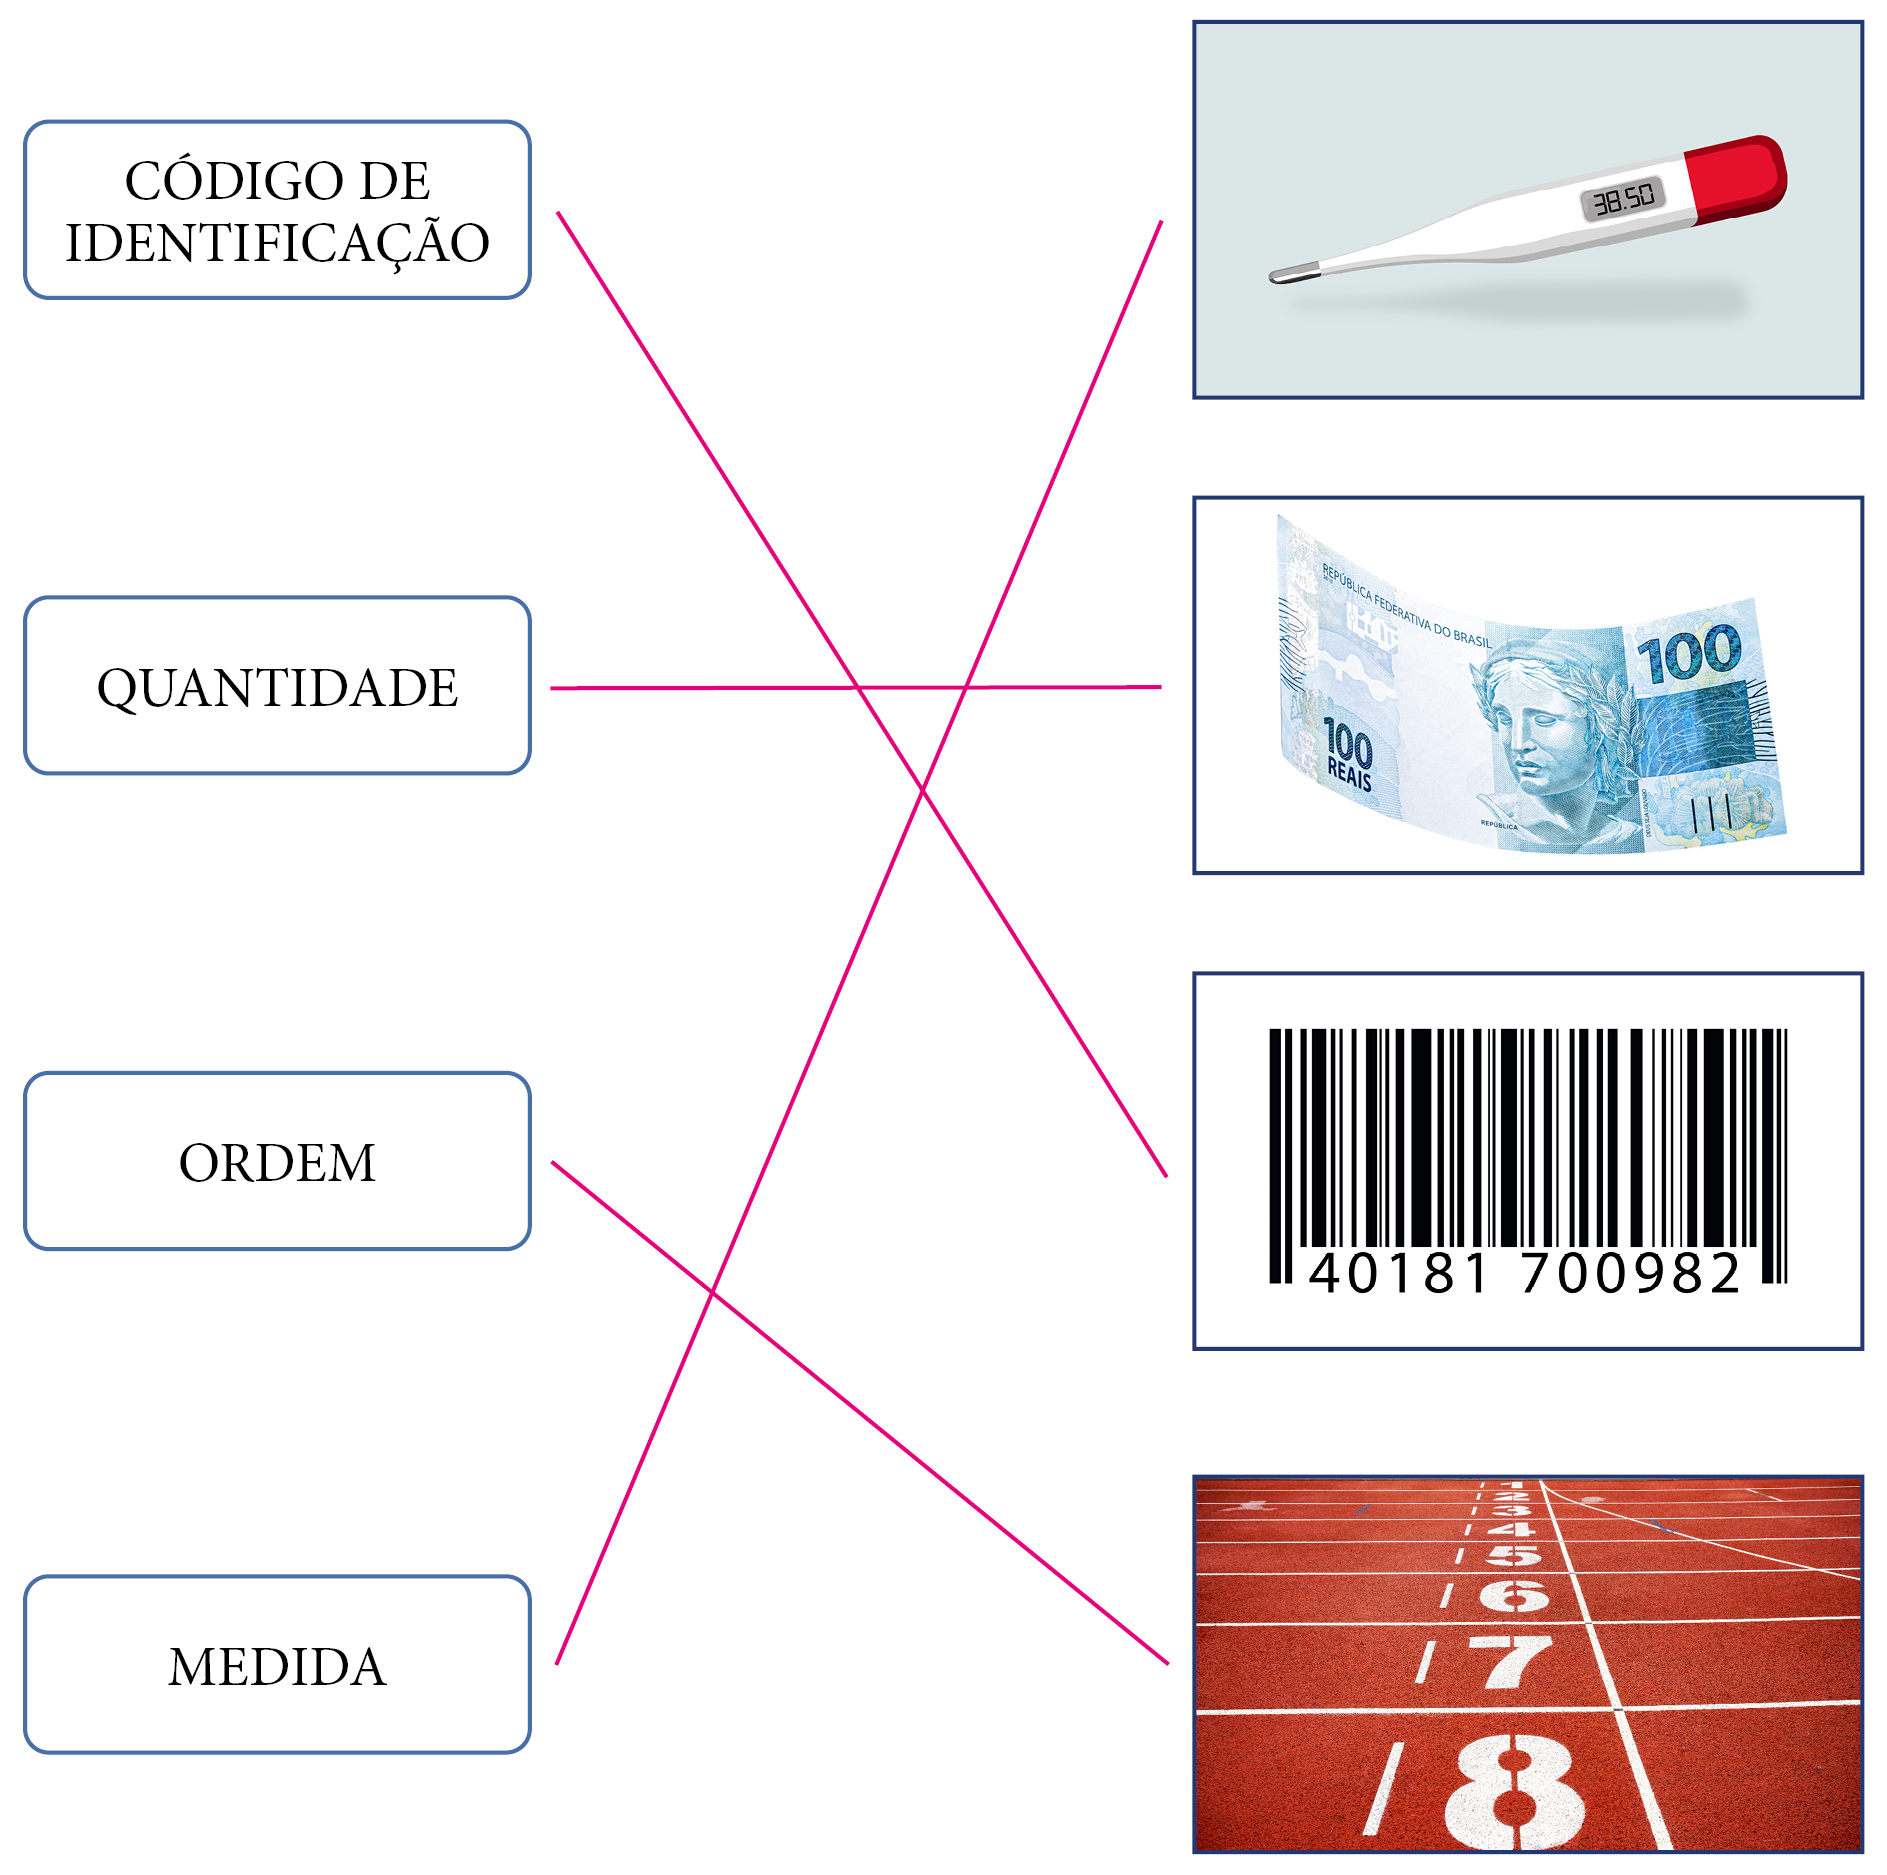
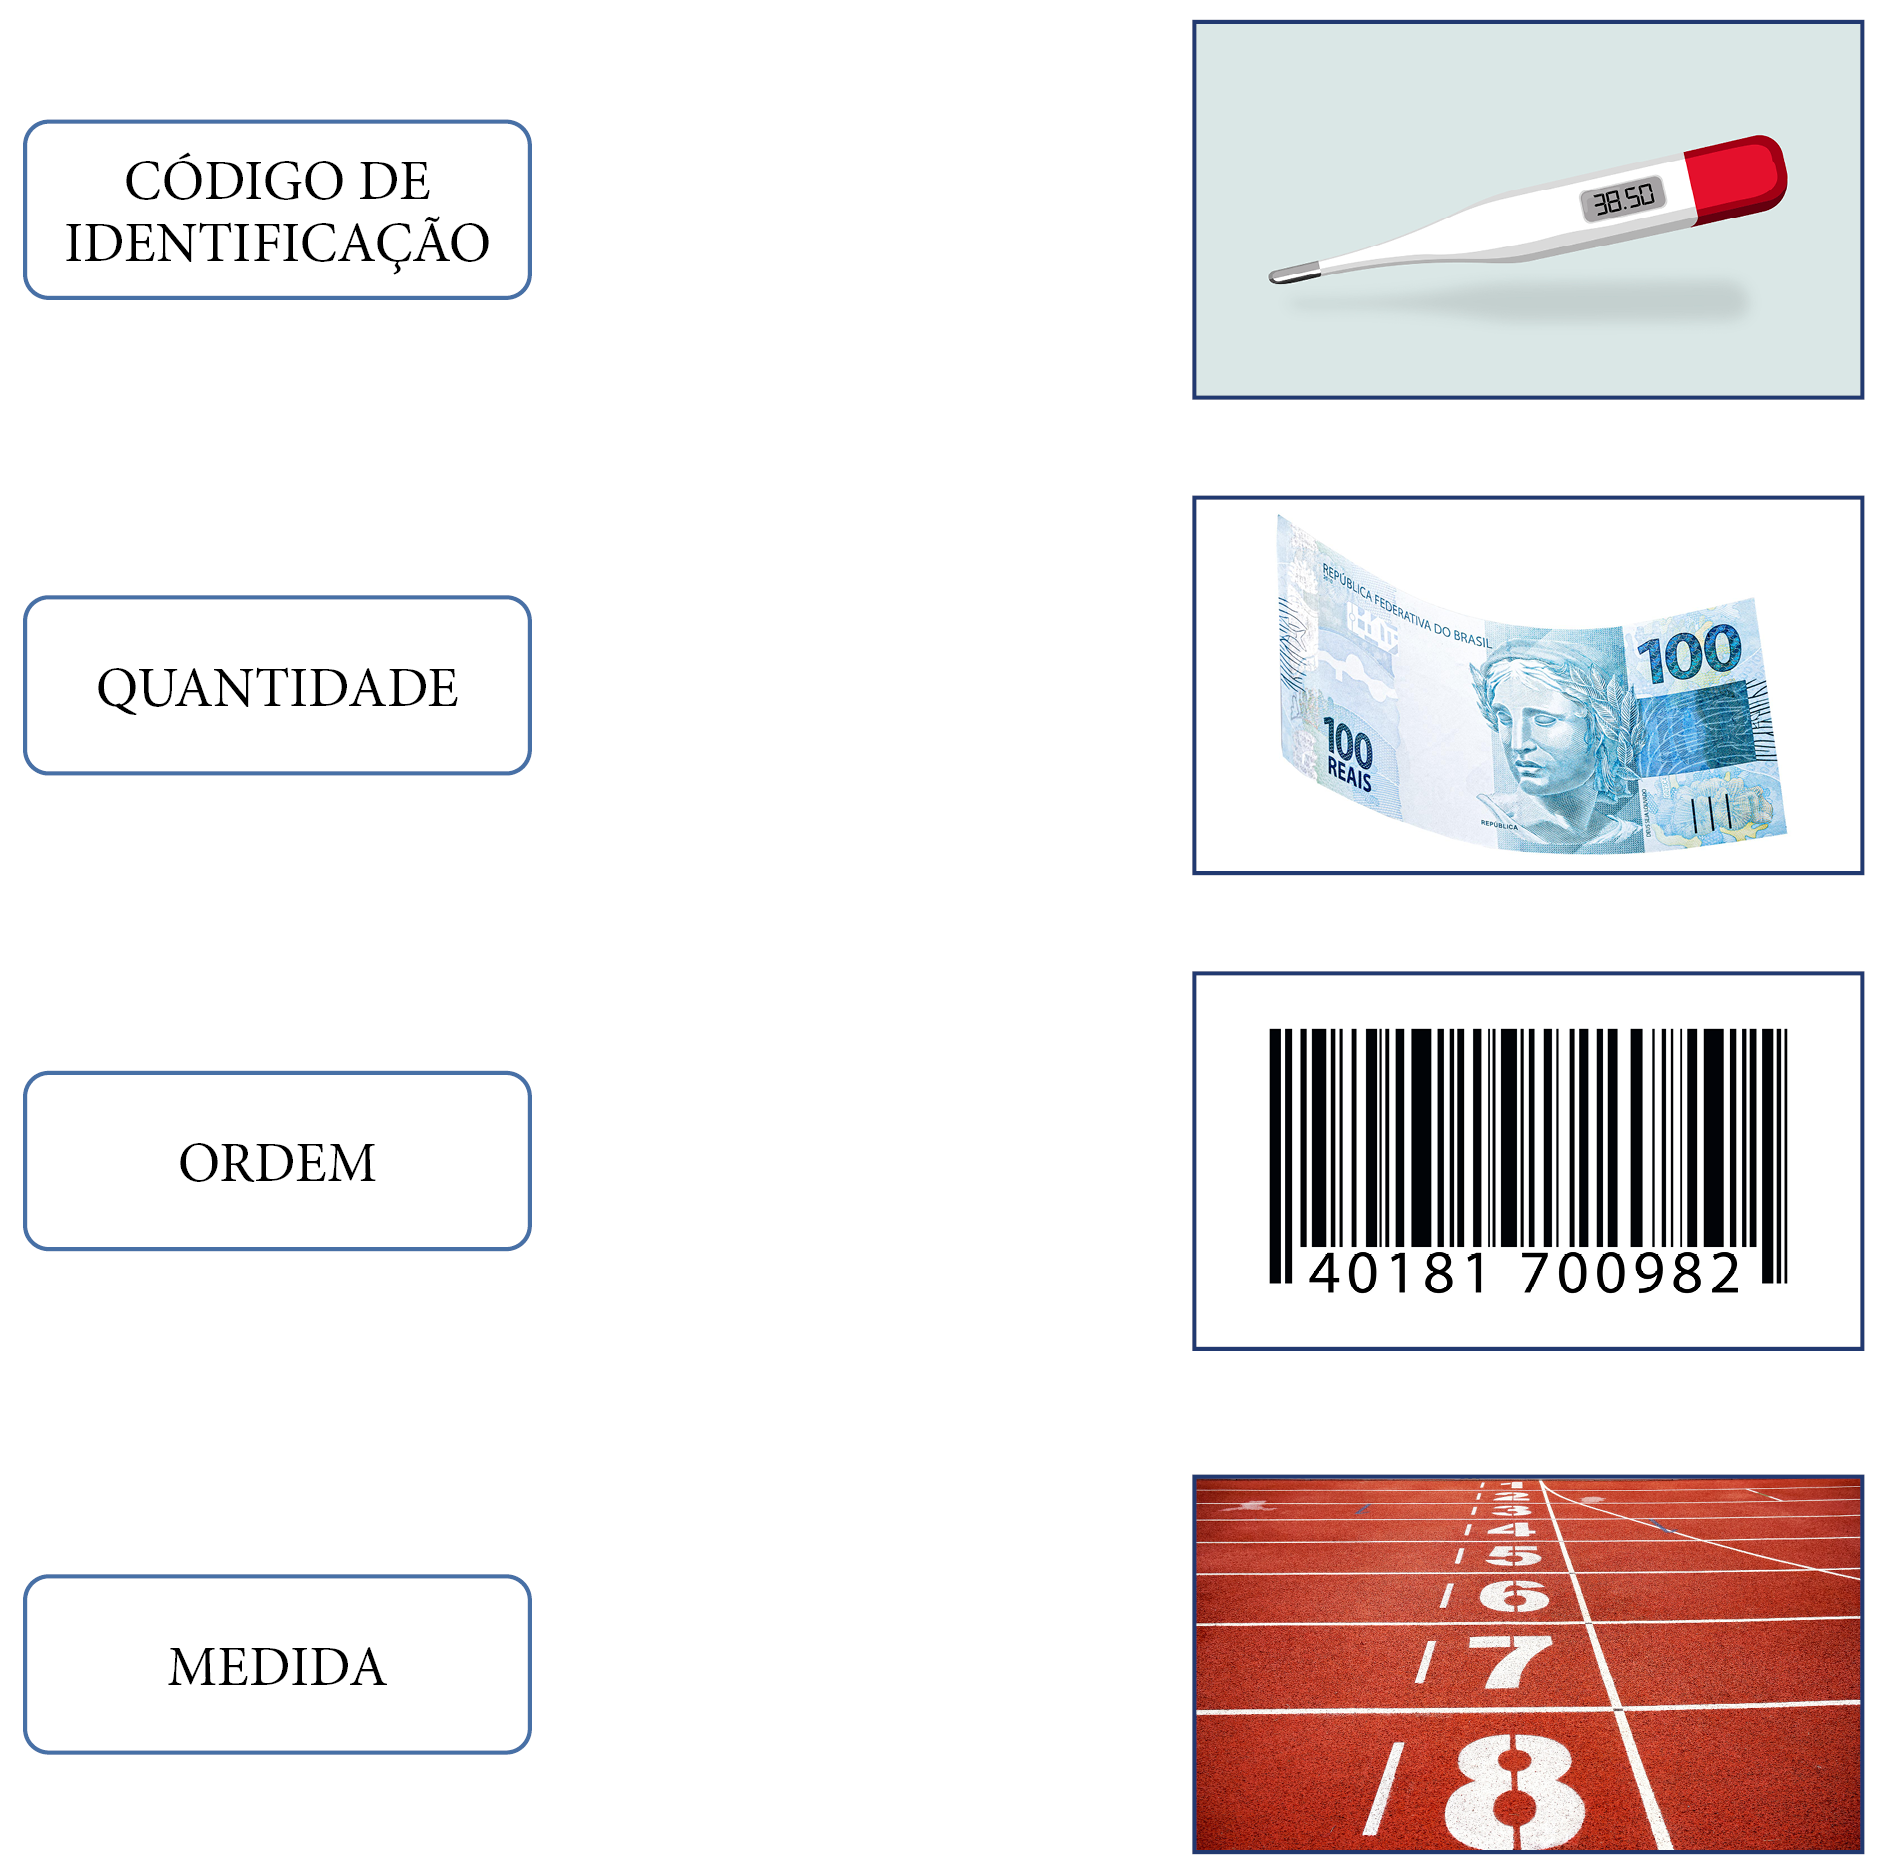
antes do rosa

diff --git a/2M/MAT.tex b/2M/MAT.tex
@@ -75,7 +75,7 @@ pedrinhas que queremos adicionar, por exemplo.}
 
 \begin{figure}[htpb!]
 \centering
-\includegraphics[width=.8\textwidth]{./media/image3_prof.png}
+\includegraphics[width=.8\textwidth]{./media/image3.png}
 \end{figure}
 
 %André: eliminar as linhas da imagem e colocar as respostas por extenso em uma única linha usando o comando \rosa e aumentar a imagem (28/8/23, 11h56) CRoger + Felipe A 
@@ -97,7 +97,7 @@ ordená-los primeiro.
 direita representa as unidades, e assim por diante.
 
 \begin{figure}[htpb!]
-\includegraphics[width=.7\textwidth]{./media/image5_prof.png}
+\includegraphics[width=.7\textwidth]{./media/image5.png}
 \end{figure}
 
 % André: individualizar as imagens e melhorar distribuição na página (28/8/23, CR + Felipe A)
@@ -109,7 +109,7 @@ quadros abaixo das letras. Depois, ordene as letras no quadro seguinte.
 % André: apagar respostas do quadro e escrevê-las por extenso (28/8/23, CR + Felipe A)
 
 \begin{figure}[htpb!]
-\includegraphics[width=\textwidth]{./media/image6_prof.png}
+\includegraphics[width=\textwidth]{./media/image6.png}
 \end{figure}
 
 %\coment{Oriente os alunos a descobrirem os números antes de ordená-los.}
@@ -147,7 +147,7 @@ situações.
 \vspace{+2em}
 
 \begin{figure}[htpb!]
-\includegraphics[width=\textwidth]{./media/image9_prof.png}
+\includegraphics[width=\textwidth]{./media/image9.png}
 \end{figure}
 
 \coment{Tente estimular os próprios alunos a citarem diferentes exemplos. Caso, porém, eles não consigam fazê-lo de forma autônoma, ajude-os, mostrando você mesmo a eles os exemplos.}
@@ -200,7 +200,7 @@ as bolas que contêm esses números.
 % André: tirar resposta do caça-palavras (28/8/23, CR + Felipe A)
 
 \begin{figure}[htpb!]
-\includegraphics[width=\textwidth]{./media/image11_prof.png}
+\includegraphics[width=\textwidth]{./media/image11.png}
 \end{figure}
 
 \begin{figure}[htpb!]
@@ -218,7 +218,7 @@ estabelecimentos nos quadrados correspondentes após a leitura do texto.
 
 \begin{figure}[htpb!]
 \centering
-\includegraphics[width=\textwidth]{./media/image14_prof.png}
+\includegraphics[width=\textwidth]{./media/image14.png}
 \end{figure}
 
 % \num{11} Analise os números e preencha a tabela com as informações pedidas.
@@ -444,7 +444,7 @@ Calcule a pontuação das jogadas a seguir. Os ``x'' vermelhos mostram onde o da
 %André: colocar as respostas por extenso (28/8/23)
 
 \begin{figure}[htpb!]
-\includegraphics[width=.7\textwidth]{./media/image25_prof.png}
+\includegraphics[width=.7\textwidth]{./media/image25.png}
 \end{figure}
 
 \pagebreak
@@ -715,7 +715,7 @@ capacidade dos líquidos de ocupar espaço.
 Compare os objetos e complete o quadro com os valores aproximados.
 
 \begin{figure}[htpb!]
-\includegraphics[width=\textwidth]{./media/image35_prof.png}
+\includegraphics[width=\textwidth]{./media/image35.png}
 \end{figure}
 
 %\coment{É importante que o aluno perceba a proporção entre os objetos e consiga então inferir a capacidade do objeto do meio.}
@@ -731,7 +731,7 @@ quais tubos têm as quantidades informadas no quadro.
 \end{figure}
 
 \begin{figure}[H]
-\includegraphics[width=\textwidth]{./media/image37_prof.png}
+\includegraphics[width=\textwidth]{./media/image37.png}
 \end{figure}
 
 \num{8} Encontre unidades de medidas no caça-palavras.
@@ -987,7 +987,7 @@ cálculos, lidando com os dias do mês.
 
 % \begin{figure}[htpb!]
 % \centering
-% \includegraphics[width=.8\textwidth]{./media/image56_prof.png}
+% \includegraphics[width=.8\textwidth]{./media/image56.png}
 % \end{figure}
 
 \begin{table}[H]
@@ -1010,14 +1010,14 @@ corretas. Em seguida, determine quanto tempo Mariana ficou fora de casa.
 
 \begin{figure}[H]
 \centering
-\includegraphics[width=.7\textwidth]{./media/image54_prof.png}
+\includegraphics[width=.7\textwidth]{./media/image54.png}
 \end{figure}
 
 %\textless{} https://br.freepik.com/fotos-gratis/relogio-sem-maos\_944733.htm\#query=rel\%C3\%B3gio\%20anal\%C3\%B3gico\&position=0\&from\_view=search\&track=ais\textgreater{}
 
 % \begin{figure}[H]
 % \centering
-% \includegraphics[width=\textwidth]{./media/image50_prof.png}
+% \includegraphics[width=\textwidth]{./media/image50.png}
 % \end{figure}
 
 \num{5} Analise o calendário de 2023 e indique o dia da semana dos eventos pedidos.
@@ -1066,7 +1066,7 @@ consulta. Sabendo disso, complete o quadro. (Utilize o calendário
 da atividade 5.)
 
 \begin{figure}[htpb!]
-\includegraphics[width=\textwidth]{./media/image53_prof.png}
+\includegraphics[width=\textwidth]{./media/image53.png}
 \end{figure}
 
 \num{8} O professor de educação física resolveu organizar um campeonato de
@@ -1125,7 +1125,7 @@ final entre Argentina e França.
 %\coment{Deve ser marcado o dia 17 de dezembro como resposta.}
 
 \begin{figure}[htpb!]
-\includegraphics[width=\textwidth]{./media/image59_prof.png}
+\includegraphics[width=\textwidth]{./media/image59.png}
 \end{figure}
 
 Aproveitando os dados da atividade anterior, responda ao que se pede:
@@ -1287,7 +1287,7 @@ Elas estão embaralhadas.
 
 \begin{figure}[htpb!]
 \centering
-\includegraphics[width=.7\textwidth]{./media/image63_prof.png}
+\includegraphics[width=.7\textwidth]{./media/image63.png}
 \end{figure}
 
 %\coment{Talvez os alunos não se lembrem. Ajude-os se necessário. Caso tenha cédulas para eles verem, pelo menos algumas delas, isso pode ser útil.}
@@ -1312,7 +1312,7 @@ moedas de 1 real, Célio deve dar 4 moedas de 50 centavos e Cássio deve dar 8 m
 
 \begin{figure}[htpb!]
 \centering
-\includegraphics[width=.6\textwidth]{./media/image77_prof.png}
+\includegraphics[width=.6\textwidth]{./media/image77.png}
 \end{figure}
 
 \begin{escolha}[itemsep=-5pt]
@@ -1606,7 +1606,7 @@ bicicleta. Ligue as situações do quadro às suas probabilidades.
 %\textless{}https://br.freepik.com/vetores-premium/ilustracao-vetorial-de-bicicleta-infantil-rosa\_28324477.htm\#page=3\&query=bicicleta\%20com\%20rodinha\%20auxiliar\&position=8\&from\_view=search\&track=ais.\textgreater{}
 
 \begin{figure}[H]
-\includegraphics[width=\textwidth]{./media/image87_prof.png}
+\includegraphics[width=\textwidth]{./media/image87.png}
 \end{figure}
 
 %\coment{Situação 1 = Muito provável.
@@ -1633,7 +1633,7 @@ situação impossível e uma situação de certeza que podem ocorrer durante uma
 provável, muito provável, impossível ou certa de acontecer.
 
 \begin{figure}[H]
-\includegraphics[width=.8\textwidth]{./media/image88_prof.png}
+\includegraphics[width=.8\textwidth]{./media/image88.png}
 \end{figure}
 
 \num{7} Escreva, a seguir, duas situações que sejam muito prováveis, mais duas
@@ -2099,28 +2099,28 @@ Bem mais fácil assim, não é!?
 
 \begin{figure}[htpb!]
 \centering
-\includegraphics[width=.6\textwidth]{./media/image104_prof.png}
+\includegraphics[width=.6\textwidth]{./media/image104.png}
 \end{figure}
 
 \pagebreak
 \num{2} Complete os quadros a seguir.
 
 \begin{figure}[htpb!]
-\includegraphics[width=\textwidth]{./media/image105_prof.png}
+\includegraphics[width=\textwidth]{./media/image105.png}
 \end{figure}
 
 \pagebreak
 \num{3} Ligue as porções de pizzas da esquerda às suas metades correspondentes.
 
 \begin{figure}[htpb!]
-\includegraphics[width=\textwidth]{./media/image106_prof.png}
+\includegraphics[width=\textwidth]{./media/image106.png}
 \end{figure}
 
 \pagebreak
 \num{4} Ligue as figuras da esquerda aos seus triplos correspondentes.
 
 \begin{figure}[htpb!]
-\includegraphics[width=\textwidth]{./media/image107_prof.png}
+\includegraphics[width=\textwidth]{./media/image107.png}
 \end{figure}
 
 \pagebreak
@@ -2162,7 +2162,7 @@ pinte o quadradinho da mentira de vermelho.\enlargethispage{2\baselineskip}
 
 \begin{figure}[htpb!]
 \centering
-\includegraphics[width=.9\textwidth]{./media/image109_prof.png}
+\includegraphics[width=.9\textwidth]{./media/image109.png}
 \end{figure}
 
 \begin{figure}[htpb!]
@@ -2176,7 +2176,7 @@ pinte o quadradinho da mentira de vermelho.\enlargethispage{2\baselineskip}
 primeira linha.
 
 \begin{figure}[htpb!]
-\includegraphics[width=\textwidth]{./media/image111_prof.png}
+\includegraphics[width=\textwidth]{./media/image111.png}
 \end{figure}
 
 %\coment{Esta atividade é bastante complexa e pode demandar bastante tempo. É importante que você faça os exercícios com os alunos até o 50, por exemplo, e permita que eles façam sozinhos o restante. Discuta com eles os padrões das colunas. Por exemplo: a coluna dos números a serem multiplicados aumentam de 10 em 10, a cada linha. Como a primeira coluna de cálculos vale a metade da coluna principal, demonstre aos alunos que nessa coluna os números aumentam de 5 em 5, já que 5 é a metade de 10. Estabeleça esses tipos de relações entre as colunas, para fixar com os alunos a ideia dessas proporções.}

diff --git a/2M/LIVRO.tex b/2M/LIVRO.tex
@@ -65,7 +65,7 @@
 
 \let\colorsec=\section 
 
-%\definecolor{rosa}{cmyk}{0,0,0,0}
+\definecolor{rosa}{cmyk}{0,0,0,0}
 
 \begin{document}
 
